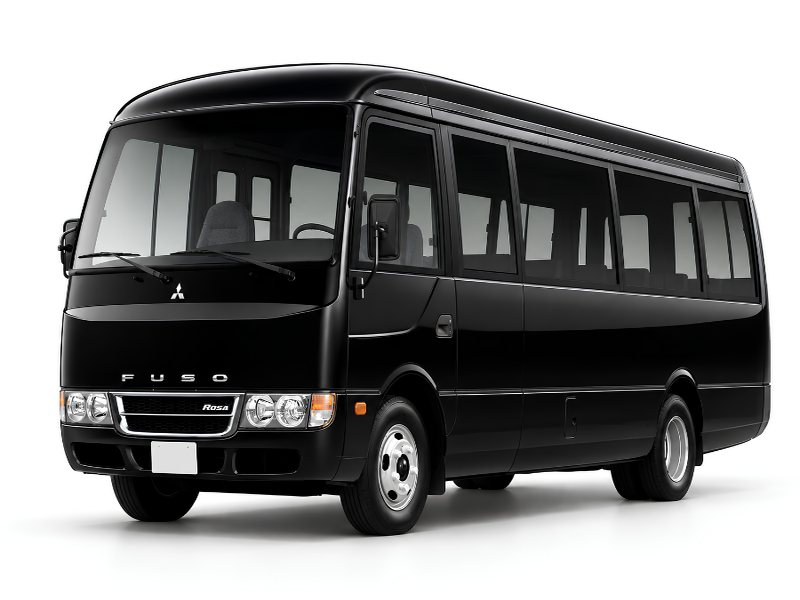
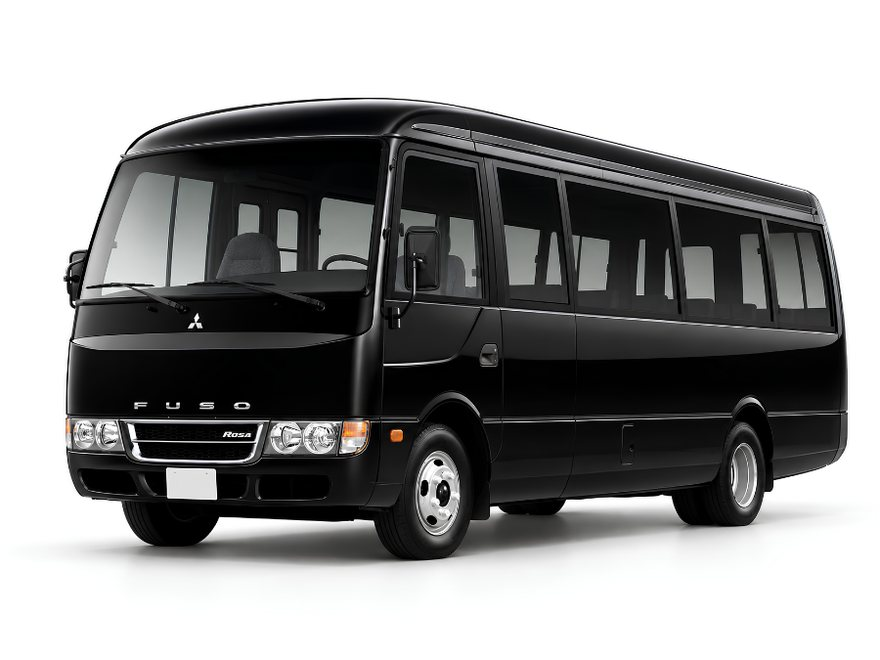
Add Paula's Japan vehicle tile photos
Every Japan tile now carries the plain cut-out Paula sent, so none is left on
the "photo to be added" placeholder. The branded cards stay as the pop-up
behind the arrow, which is what she asked for.

Her photos name the buses by seat class rather than by model, so the two
generic bus tiles become four: Hino at 30, 45 and 49 seats and Isuzu at 45.
Her "Toyota Super Grandia" file is the wide Hi-Ace her 10-Seater row and its
branded card both call Toyota Hi-Ace, so it fills that tile.

Photos are padded to 4:3 rather than cropped, since the tile box is
object-fit:cover and a long bus would otherwise lose its nose or tail. On a
phone the arrow drops below the tags instead of overlapping them, which the
two-up tiles are too narrow to allow.

Claude-Session: https://claude.ai/code/session_016zMD4FhFkwd1uRYesY6Z4R

diff --git a/terms.html b/terms.html
@@ -630,8 +630,11 @@
     transition:border-color .2s var(--ease),box-shadow .2s var(--ease);
   }
   .vtile:hover{border-color:var(--line-strong);box-shadow:var(--shadow-sm);}
+  /* The tile photos are cut-outs on white, so the divider .dest-media draws
+     under a real photo only reads as a stray line here. */
   .vtile-shot{
     aspect-ratio:4/3;border-radius:calc(var(--radius-md) - 4px);background:var(--surface-2);
+    border-bottom:0;
   }
   .vtile-shot:not(.has-photo){border:1px dashed var(--line-strong);}
   .vtile-shot .icon{width:22px;height:22px;}
@@ -654,6 +657,12 @@
   .vtile-more:hover{transform:scale(1.08);}
   .vtile-more:active{transform:scale(.96);}
   .vtile-more .icon{width:18px;height:18px;}
+  /* Two-up tiles on a phone are too narrow to give up 44px to an overlapping
+     button, so below that the arrow drops into the flow under the tags. */
+  @media (max-width:560px){
+    .vtile-body{padding-right:0;}
+    .vtile-more{position:static;margin:12px 0 0 auto;}
+  }
 
   /* ---- Vehicle card lightbox ----------------------------------------- */
   .vlightbox[hidden]{display:none;}
@@ -1137,17 +1146,31 @@
             <button class="vtile-more" type="button" data-card="assets/vehicles/japan/mitsubishi-rosa.jpg" data-model="Mitsubishi Rosa" aria-label="See the seating and luggage layout for the Mitsubishi Rosa"><svg class="icon" aria-hidden="true"><use href="#i-arrow-right"/></svg></button>
           </article>
           <article class="vtile">
-            <div class="dest-media vtile-shot"><div class="dest-media-empty"><svg class="icon" aria-hidden="true"><use href="#i-image"/></svg><span>Photo to be added</span></div><img src="assets/vehicles/japan/tiles/hino-bus.jpg" alt="Hino Bus used for Your Travel Guide private transfers and tours in Japan" loading="lazy" decoding="async"></div>
+            <div class="dest-media vtile-shot"><div class="dest-media-empty"><svg class="icon" aria-hidden="true"><use href="#i-image"/></svg><span>Photo to be added</span></div><img src="assets/vehicles/japan/tiles/hino-bus-30-seater.jpg" alt="Hino Bus used for Your Travel Guide private transfers and tours in Japan" loading="lazy" decoding="async"></div>
             <div class="vtile-body">
               <h4>Hino Bus</h4>
               <p class="vtile-tags"><span>Hino</span><span>30-Seater</span></p>
             </div>
           </article>
           <article class="vtile">
-            <div class="dest-media vtile-shot"><div class="dest-media-empty"><svg class="icon" aria-hidden="true"><use href="#i-image"/></svg><span>Photo to be added</span></div><img src="assets/vehicles/japan/tiles/isuzu-bus.jpg" alt="Isuzu Bus used for Your Travel Guide private transfers and tours in Japan" loading="lazy" decoding="async"></div>
+            <div class="dest-media vtile-shot"><div class="dest-media-empty"><svg class="icon" aria-hidden="true"><use href="#i-image"/></svg><span>Photo to be added</span></div><img src="assets/vehicles/japan/tiles/hino-bus-45-seater.jpg" alt="Hino Bus used for Your Travel Guide private transfers and tours in Japan" loading="lazy" decoding="async"></div>
+            <div class="vtile-body">
+              <h4>Hino Bus</h4>
+              <p class="vtile-tags"><span>Hino</span><span>45-Seater</span></p>
+            </div>
+          </article>
+          <article class="vtile">
+            <div class="dest-media vtile-shot"><div class="dest-media-empty"><svg class="icon" aria-hidden="true"><use href="#i-image"/></svg><span>Photo to be added</span></div><img src="assets/vehicles/japan/tiles/isuzu-bus-45-seater.jpg" alt="Isuzu Bus used for Your Travel Guide private transfers and tours in Japan" loading="lazy" decoding="async"></div>
             <div class="vtile-body">
               <h4>Isuzu Bus</h4>
-              <p class="vtile-tags"><span>Isuzu</span><span>30-Seater</span></p>
+              <p class="vtile-tags"><span>Isuzu</span><span>45-Seater</span></p>
+            </div>
+          </article>
+          <article class="vtile">
+            <div class="dest-media vtile-shot"><div class="dest-media-empty"><svg class="icon" aria-hidden="true"><use href="#i-image"/></svg><span>Photo to be added</span></div><img src="assets/vehicles/japan/tiles/hino-bus-49-seater.jpg" alt="Hino Bus used for Your Travel Guide private transfers and tours in Japan" loading="lazy" decoding="async"></div>
+            <div class="vtile-body">
+              <h4>Hino Bus</h4>
+              <p class="vtile-tags"><span>Hino</span><span>49-Seater</span></p>
             </div>
           </article>
         </div>
